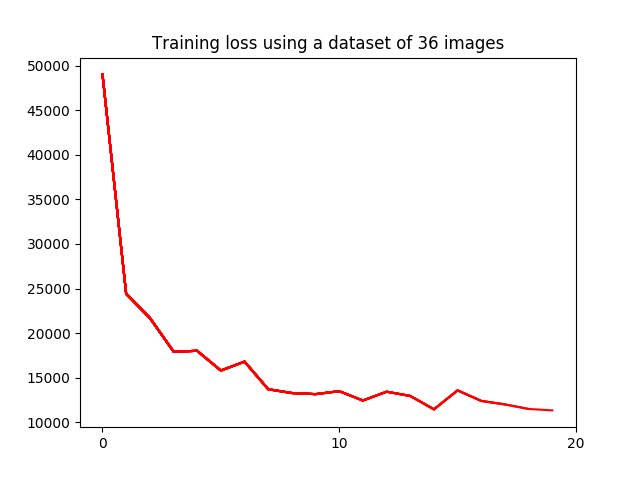
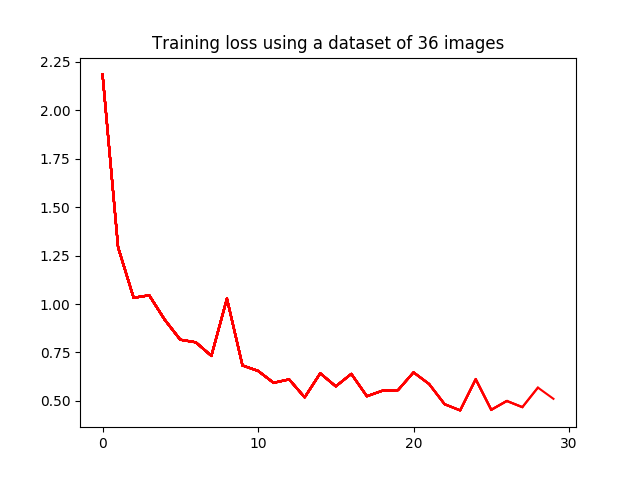
MattingDataset updated to support test images

diff --git a/training.py b/training.py
@@ -13,7 +13,6 @@ from loss import alpha_prediction_loss, compositional_loss, sum_absolute_differe
 
 
 
-
 def clip_gradients(models):
     for m in models:
         torch.nn.utils.clip_grad_norm_(m.parameters(), _GRADIENT_CLIP_)
@@ -43,13 +42,18 @@ def batch_collate_fn(batch):
 _TRAIN_FOREGROUND_DIR_ = "./Dataset/Training_set/CombinedForeground"
 _TRAIN_BACKGROUND_DIR_ = "./Dataset/Background/COCO_Images"
 _TRAIN_ALPHA_DIR_ = "./Dataset/Training_set/CombinedAlpha"
+_TEST_FOREGROUND_DIR_ = "./Dataset/Test_set/Adobe_licensed_images/fg"
+_TEST_BACKGROUND_DIR_ = "./Dataset/Background/COCO_Images"
+_TEST_ALPHA_DIR_ = "./Dataset/Test_set/Adobe_licensed_images/alpha"
+_TEST_TRIMAP_DIR_ = "./Dataset/Test_set/Adobe_licensed_images/trimaps"
+
 _NETWORK_INPUT_ = (320,320)
 _COMPUTE_DEVICE_ = torch.device("cuda" if torch.cuda.is_available() else "cpu")
-_NUM_EPOCHS_ = 30 #200 #TODO: Remove 90
+_NUM_EPOCHS_ = 40 #200 #TODO: Remove 50
 _BATCH_SIZE_ = 8 #TODO: Increase this if using a GPU
 _NUM_WORKERS_ = multiprocessing.cpu_count()
 _LOSS_WEIGHT_ = 0.6
-_GRADIENT_CLIP_ = 2.5
+_GRADIENT_CLIP_ = 10
 
 tripleTransforms = transforms.Compose([
     RandomRotation(probability=0.5, angle=180),
@@ -70,6 +74,8 @@ trainingDataset = MattingDataset(
                         _TRAIN_FOREGROUND_DIR_, _TRAIN_BACKGROUND_DIR_, _TRAIN_ALPHA_DIR_, 
                         allTransform=tripleTransforms, imageTransforms=None
                     )
+testDataset = MattingDataset(_TEST_FOREGROUND_DIR_, _TEST_BACKGROUND_DIR_, _TEST_ALPHA_DIR_, trimapDir=_TEST_TRIMAP_DIR_, allTransform=None, imageTransforms=None)
+
 trainDataloader = torch.utils.data.DataLoader(
                             trainingDataset, batch_size=_BATCH_SIZE_, shuffle=True, num_workers=_NUM_WORKERS_, collate_fn=batch_collate_fn)
 
@@ -140,10 +146,8 @@ if __name__ == "__main__":
                 optimiser.zero_grad()
                 totalLoss.backward()
 
-                #NB: `lossAlpha` can be high at first e.g 107,001. This can cause high gradient updates and can
-                #   make training unstable. The gradients might need to be clipped to help training.
-                #   The model still trains nicely without clipping, this just gives you that smooth loss function
-                # clip_gradients([model, refinementModel])
+                # Gradient clipping doesn't really make that much of a difference
+                clip_gradients([model, refinementModel])
 
                 optimiser.step()
 

diff --git a/Dataset/MattingDataset.py b/Dataset/MattingDataset.py
@@ -8,18 +8,21 @@ import random
 from PIL import Image, ImageFilter, ImageChops
 
 class MattingDataset(data.Dataset):
-    def __init__(self, fgDir, bgDir, alphaDir, allTransform, imageTransforms):
+    def __init__(self, fgDir, bgDir, alphaDir, trimapDir=None, allTransform=None, imageTransforms=None):
         self.fgDir = fgDir
         self.bgDir = bgDir
         self.alphaDir = alphaDir
+        self.trimapDir = trimapDir
 
         self.foregroundImageNames = os.listdir(self.fgDir)
         self.backgroundImageNames = os.listdir(self.bgDir)
         random.shuffle(self.backgroundImageNames) #TODO: Remove
-        self.backgroundImageNames = self.backgroundImageNames[:4] #TODO: Remove 13
+        self.backgroundImageNames = self.backgroundImageNames[:13] #TODO: Remove 13
         self.alphaImageNames = os.listdir(self.alphaDir)
         random.shuffle(self.alphaImageNames) #TODO: Remove
-        self.alphaImageNames = self.alphaImageNames[:4] #TODO:Remove 23
+        self.alphaImageNames = self.alphaImageNames[:13] #TODO:Remove 23
+        # if self.trimapDir is not None:
+        #     self.trimapImageNames = os.listdir(self.trimapDir)
 
         self.numForeground = len(self.foregroundImageNames)
         self.numBackground = len(self.backgroundImageNames)
@@ -46,7 +49,12 @@ class MattingDataset(data.Dataset):
 
         backgroundImage = self.resize_background(backgroundImage, foregroundImage.size)
         
-        trimap = self.create_trimap(alphaMask)
+        if self.trimapDir is not None:
+            name, fileFormat = alphaMaskName.split(".")
+            trimapName = f"{name}_0.{fileFormat}"
+            trimap = self.open_image(os.path.join(self.trimapDir, trimapName))
+        else:
+            trimap = self.create_trimap(alphaMask)
 
         compositeImage = self.composite_image(foregroundImage, backgroundImage, alphaMask)
 
